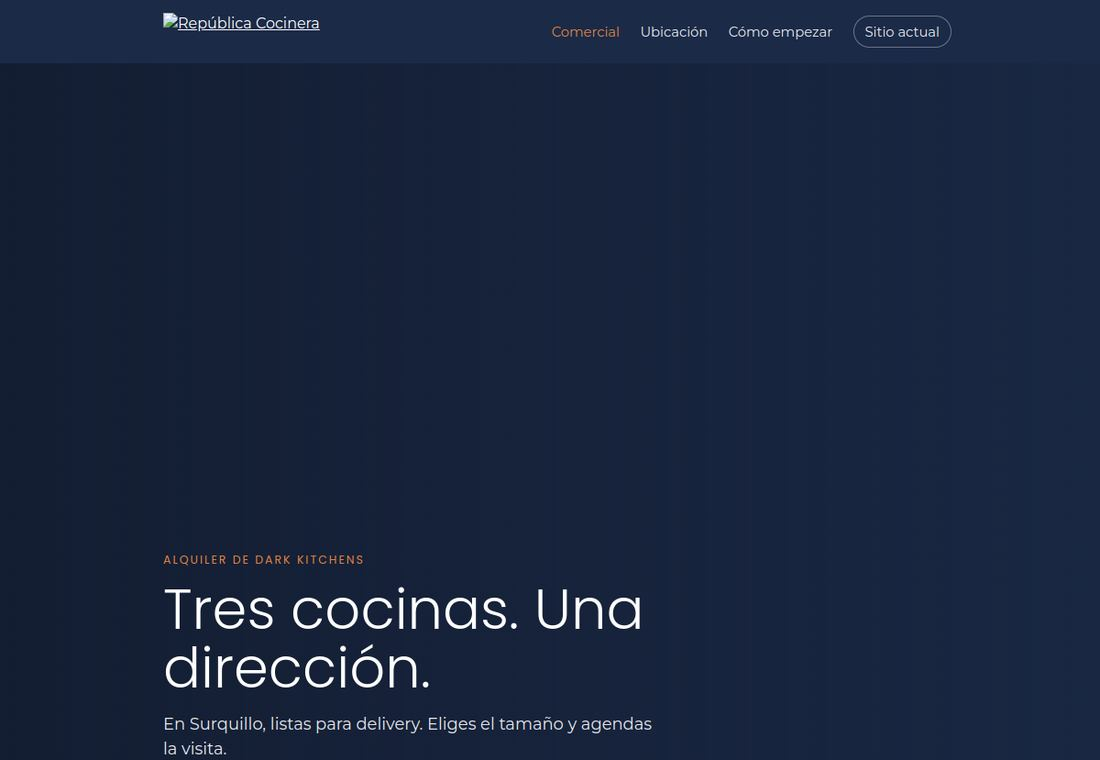
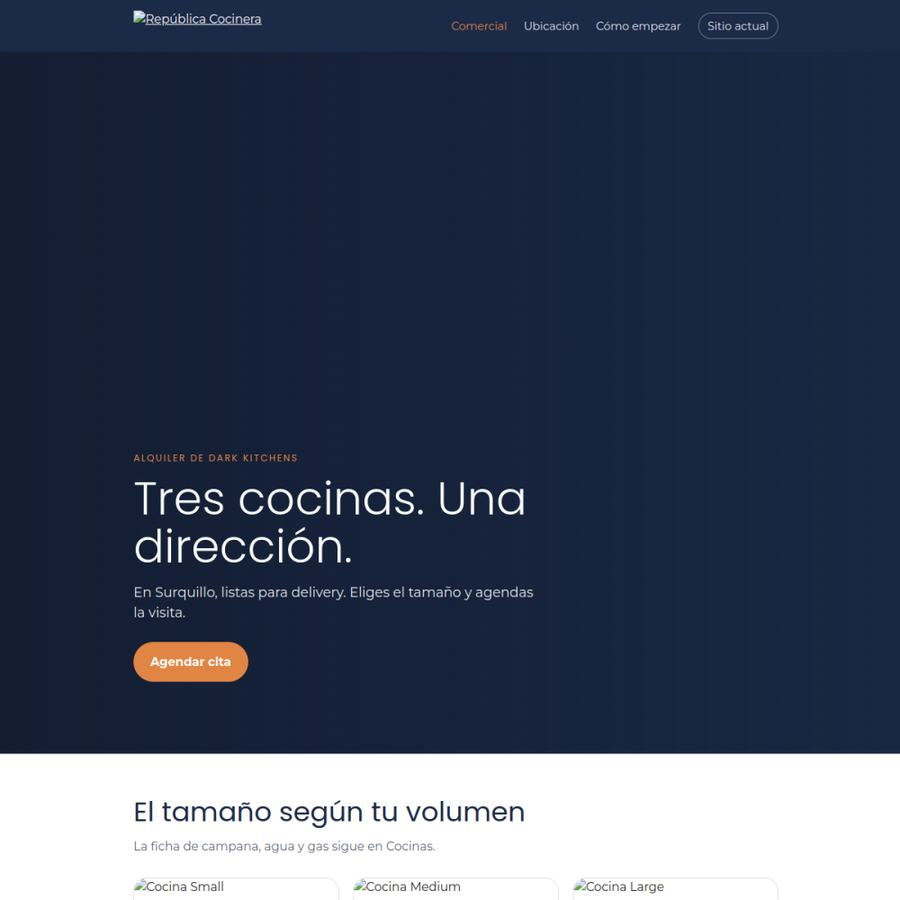
Capturas más altas y botones rectangulares

Changed region(s): [[0.0, 0.4842, 1.0, 1.0], [0.4978, 0.0, 0.8711, 0.0605], [0.1244, 0.0, 0.3111, 0.0605]]

diff --git a/assets/style.css b/assets/style.css
@@ -169,7 +169,7 @@ footer { margin: 0; padding-top: 1.4rem; padding-bottom: 1.4rem; }
 .pick { margin: 0; }
 .pick img {
   width: 100%;
-  height: 210px;
+  height: 440px;
   object-fit: cover;
   object-position: top;
   border-radius: 12px;
@@ -179,10 +179,10 @@ footer { margin: 0; padding-top: 1.4rem; padding-bottom: 1.4rem; }
   display: flex;
   align-items: center;
   justify-content: center;
-  width: 42px;
-  height: 42px;
-  margin: 0.65rem auto 0;
-  border-radius: 50%;
+  width: 100%;
+  min-height: 52px;
+  margin: 0.55rem 0 0;
+  border-radius: 10px;
   background: #e18544;
   color: #fff;
   text-decoration: none;
@@ -194,5 +194,5 @@ footer { margin: 0; padding-top: 1.4rem; padding-bottom: 1.4rem; }
 
 @media (max-width: 700px) {
   .picks { grid-template-columns: repeat(2, 1fr); }
-  .pick img { height: 150px; }
+  .pick img { height: 320px; }
 }
